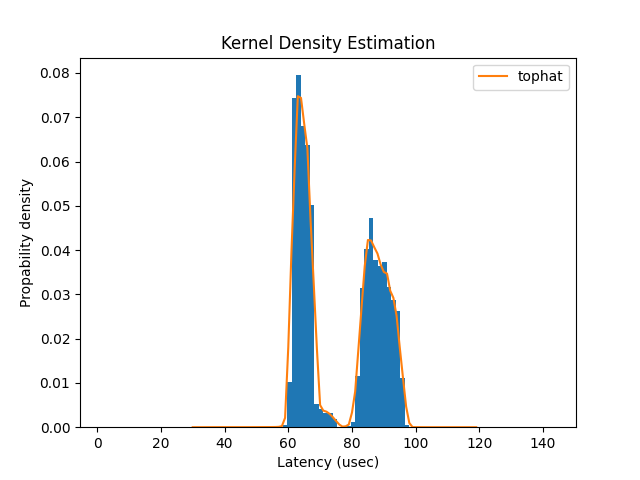
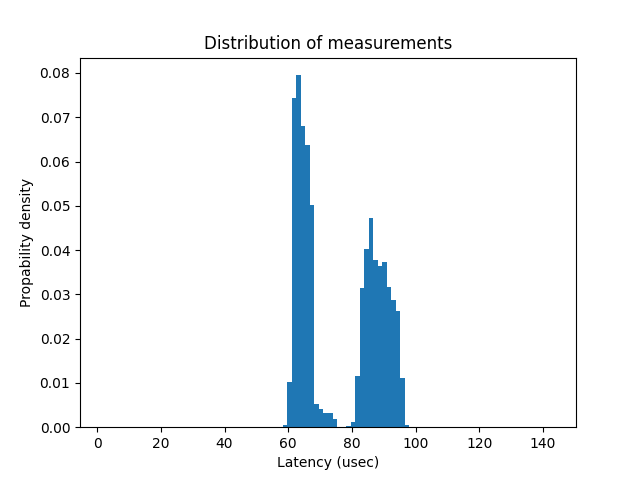
added simple mode to histograms, experimented with kernel bandwidths and added requirements.txt to easy install pip packages

diff --git a/src/fiohistogram.py b/src/fiohistogram.py
@@ -8,6 +8,7 @@ import matplotlib
 import matplotlib.pyplot as plt
 from scipy.stats import norm
 from sklearn.neighbors import KernelDensity
+from sklearn.model_selection import GridSearchCV
 
 from line_count import line_count
 from fio_utils import time_it
@@ -36,8 +37,18 @@ def load(args, filepath):
     if args.verbose:
         print("Finished parsing input. Building graph(s)...")
     return values
+
+def histogram(args, sample, smin, smax):
+    fig, ax = plt.subplots()
+    ax.hist(sample,bins=args.bins, density=True, stacked=True, log=args.ylog, range=(smin, smax))
+    ax.set(xlabel=args.xlabel, ylabel="Propability density",title="Distribution of measurements")
+    if(args.windowed):
+        plt.show()
+    else:
+        plt.savefig(args.output)
+    plt.close()
     
-def normal_distribution(args, sample): 
+def normal_distribution(args, sample, smin, smax): 
     if (args.verbose): # calculate parameters
         print("Calculate parameters...")
     sample_mean = np.mean(sample)
@@ -50,13 +61,13 @@ def normal_distribution(args, sample):
 
     if (args.verbose): # sample probabilities for a range of outcomes
         print("Sample probabilities for a range of outcomes...")
-    values = [value for value in range(30, 120)]
+    values = [value for value in range(int(smin), int(smax))]
     probabilities = [dist.pdf(value) for value in values]
     
     if (args.verbose): # plot the histogram and pdf
         print("Plot the histogram and pdf...")
     fig, ax = plt.subplots()
-    ax.hist(sample, bins=100, density=True)
+    ax.hist(sample, bins=args.bins, density=True, stacked=True, log=args.ylog, range=(smin, smax))
     ax.plot(values, probabilities)
     ax.set(xlabel=args.xlabel, ylabel="Propability density",title="Distribution of measurements")
     if(args.windowed):
@@ -65,27 +76,41 @@ def normal_distribution(args, sample):
         plt.savefig(args.output)
     plt.close()
 
-def calc_density(args, sample):
-    if (args.verbose): # training kernel density model
+def calc_density(args, sample, smin, smax):
+    """
+    Train a Kernel Density Estimation model using sample data and produce probabilities in appropriate range
+    """
+    if (args.verbose):
         print("Training kernel density model...")
-    model = KernelDensity(bandwidth=args.kernel_bw, kernel=args.kernel_mode)
+     # training kernel density model
+    start_time = time.time_ns()
+    model = KernelDensity(bandwidth=args.kbw, kernel=args.kmode)
     sample = sample.reshape((len(sample), 1))
     model.fit(sample)
-    if (args.verbose): # sample probabilities for a range of outcomes
-        print("Sample probabilities for a range of outcomes...")
-    values = np.asarray([value for value in range(30, 120)])
+    if (args.verbose):
+        print("Total training time: {:.3f} sec".format((time.time_ns() - start_time) / 1E9))
+        print("Sampling probabilities for a range of outcomes...")
+        start_time = time.time_ns()
+    # sample probabilities for a range of outcomes
+    values = np.asarray([value for value in range(int(smin), int(smax))])
     values = values.reshape((len(values), 1))
     probabilities = model.score_samples(values)
     probabilities = np.exp(probabilities)
+    if (args.verbose):
+        print("Total sampling time: {:.3f} sec".format((time.time_ns() - start_time) / 1E9))
     return (values, probabilities)
 
-def kernel_density(args, sample):
-    (values, probabilities) = time_it(calc_density, args.verbose, args, sample, start_tag="", end_tag="Kernel density estimation time: ")
+def kernel_density(args, sample, smin, smax):
+    """
+    Processes input using Kernel Density Estimation and plots the pdf (propability density function) along with the histogram
+    """
+    (values, probabilities) = time_it(calc_density, args.verbose, args, sample, smin, smax, start_tag="", end_tag="Kernel density estimation time")
+    
     if (args.verbose): # plotting histogram and pdf
         print("Plotting histogram and pdf...")
     fig, ax = plt.subplots()
-    ax.hist(sample, bins=100, density=True, stacked=True)
-    ax.plot(values[:], probabilities, label=args.kernel_mode)
+    ax.hist(sample, bins=args.bins, density=True, stacked=True, log=args.ylog, range=(smin, smax))
+    ax.plot(values[:], probabilities, label=args.kmode)
     ax.set(xlabel=args.xlabel, ylabel="Propability density",title="Kernel Density Estimation")
     ax.legend()
     if(args.windowed):
@@ -95,32 +120,43 @@ def kernel_density(args, sample):
     plt.close()
 
 def run(args):
+    # load and parse input
     sample = load(args, args.filepath)
     if (args.verbose):
         print("File '{}' has been loaded".format(args.filepath))
+    
+    # calculate min and max values of sample data
+    sample_min = np.min(sample)
+    sample_max = np.max(sample)
+    if (args.verbose):
+        print("Min value: {}, Max value: {}".format(sample_min, sample_max))
 
+    # process sample depending on mode
     if(args.mode == "normal"):
-        sample_min = np.min(sample)
-        sample_max = np.max(sample)
-
-        if (args.verbose):
-            print("Min value: {}, Max value: {}".format(sample_min, sample_max))
-        normal_distribution(args, sample)
-    if(args.mode == "kernel"):
-        kernel_density(args, sample)
+        normal_distribution(args, sample, sample_min, sample_max)
+    elif(args.mode == "kernel"):
+        kernel_density(args, sample, sample_min, sample_max)
+    else:
+        histogram(args,sample, sample_min, sample_max)
 
 def main():
     parser = argparse.ArgumentParser()
+    # required arguments
     parser.add_argument('-f','--filepath', help='absolute/relative filepaths for file to parse', required=True)
     parser.add_argument('-m','--mode', help="histogram mode used for parsing and building graphs", 
-                        choices=["normal", "kernel"], required=True)
+                        choices=["simple","normal", "kernel"], required=True)
+    # optional arguments
     parser.add_argument('-v','--verbose', help="print more information while running script", default=False, action='store_true')
     parser.add_argument('-w','--windowed', help="instead of writing to file then show in window", default=False, action='store_true')
     parser.add_argument('-o','--output', help="filepath for the built graph. defaults to 'output-hist.png'", default="output-hist.png")
     parser.add_argument('--xlabel', help="label for x-axis. defaults to 'Latency (usec)'", default="Latency (usec)")
-    parser.add_argument('--kernel-mode', help="decide what kernel density estimation method to use", 
-                        choices=["gaussian", "tophat", "epanechnikov"], default="tophat")
-    parser.add_argument('--kernel-bw', help="see: https://en.wikipedia.org/wiki/Kernel_density_estimation#Bandwidth_selection. defaults to '0.5'", default=0.5)
+    parser.add_argument('--kmode', help="decide what kernel density estimation method to use. defaults to 'gaussian'", 
+                        choices=["gaussian", "tophat", "epanechnikov"], default="gaussian")
+    parser.add_argument('--kbw', help="set kernel bandwidth, see: https://en.wikipedia.org/wiki/Kernel_density_estimation#Bandwidth_selection. defaults to '0.1'", default=0.1, type=float)
+    parser.add_argument('--bins', help="number of bins to distribute values into. defaults to 100.", default=100)
+    parser.add_argument('--ylog', help="use a logarithmic y-axis", default=False, action='store_true')
+
+    # prints introduction and measure runtime
     args = parser.parse_args()
     print("Welcome to FioLogParser - Histograms!")
     print("Building graph '{}' in mode '{}' from '{}'".format(args.output, args.mode, args.filepath))
